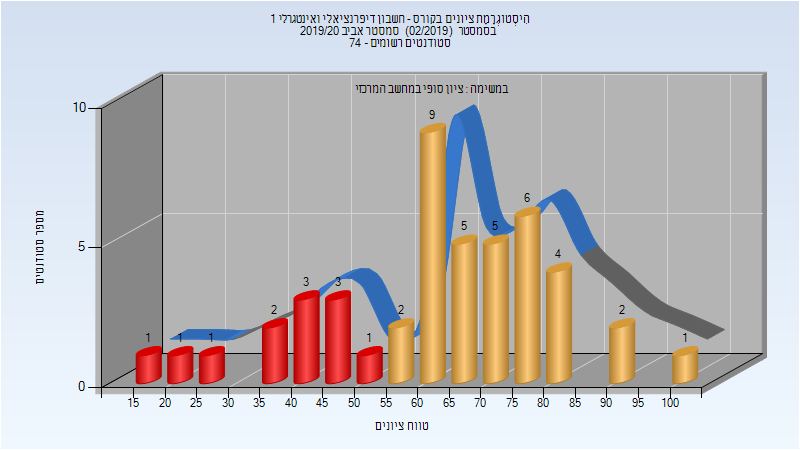
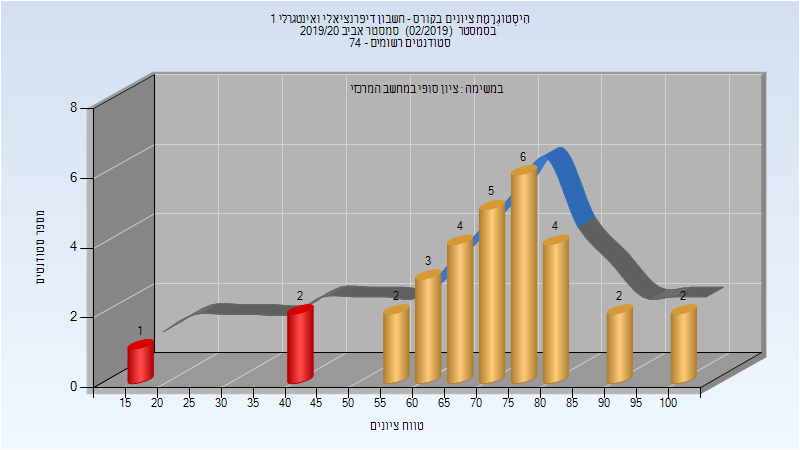
Deploy michael-maltsev/technion-histograms to github.com/michael-maltsev/technion-histograms.git:gh-pages

diff --git a/104003/index.html b/104003/index.html
@@ -1782,6 +1782,32 @@
 </tr>
 </tbody>
 </table>
+<h3>סופי מועד ב'</h3>
+<p><img src="201902/Final_B.png" alt="201902 Final_B" /></p>
+<table>
+<thead>
+<tr>
+<th>סטודנטים</th>
+<th>עברו/נכשלו</th>
+<th>אחוז עוברים</th>
+<th>ציון מינימלי</th>
+<th>ציון מקסימלי</th>
+<th>ממוצע</th>
+<th>חציון</th>
+</tr>
+</thead>
+<tbody>
+<tr>
+<td>31</td>
+<td>16/15</td>
+<td>52</td>
+<td>5</td>
+<td>100</td>
+<td>53.097</td>
+<td>52</td>
+</tr>
+</tbody>
+</table>
 <h3>סופי</h3>
 <p><img src="201902/Finals.png" alt="201902 Finals" /></p>
 <table>
@@ -1798,13 +1824,13 @@
 </thead>
 <tbody>
 <tr>
-<td>46</td>
-<td>34/12</td>
-<td>74</td>
+<td>60</td>
+<td>42/18</td>
+<td>70</td>
 <td>19</td>
 <td>100</td>
-<td>63.196</td>
-<td>64.5</td>
+<td>71.194</td>
+<td>72</td>
 </tr>
 </tbody>
 </table>

diff --git a/104003/README.md b/104003/README.md
@@ -558,11 +558,19 @@
 | ---- | ---- | ---- | ---- | ---- | ---- | ---- |
 | 46 | 34/12 | 74 | 19 | 100 | 63.196 | 64.5 |
 
+### סופי מועד ב'
+
+![201902 Final_B](201902/Final_B.png)
+
+| סטודנטים | עברו/נכשלו | אחוז עוברים | ציון מינימלי | ציון מקסימלי | ממוצע | חציון |
+| ---- | ---- | ---- | ---- | ---- | ---- | ---- |
+| 31 | 16/15 | 52 | 5 | 100 | 53.097 | 52 |
+
 ### סופי
 
 ![201902 Finals](201902/Finals.png)
 
 | סטודנטים | עברו/נכשלו | אחוז עוברים | ציון מינימלי | ציון מקסימלי | ממוצע | חציון |
 | ---- | ---- | ---- | ---- | ---- | ---- | ---- |
-| 46 | 34/12 | 74 | 19 | 100 | 63.196 | 64.5 |
+| 60 | 42/18 | 70 | 19 | 100 | 71.194 | 72 |
 
